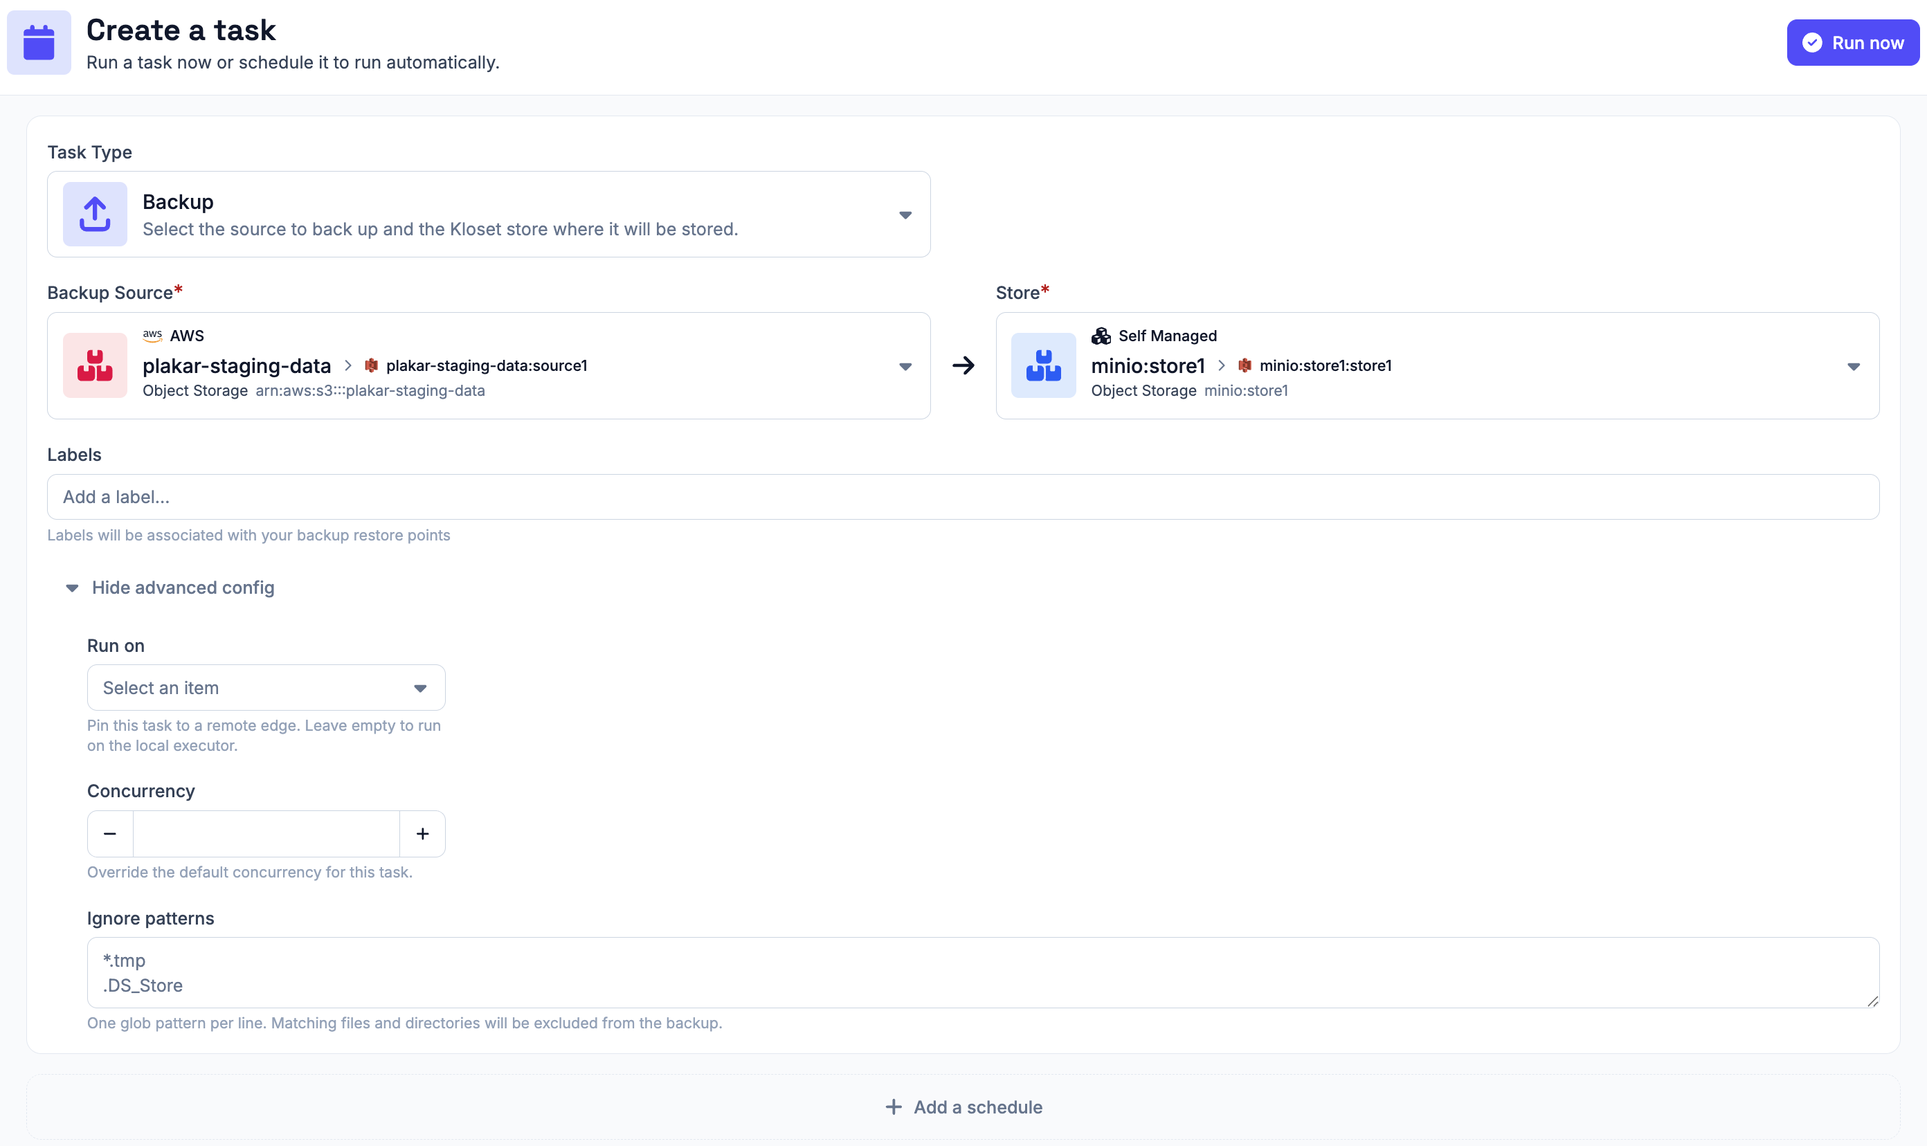
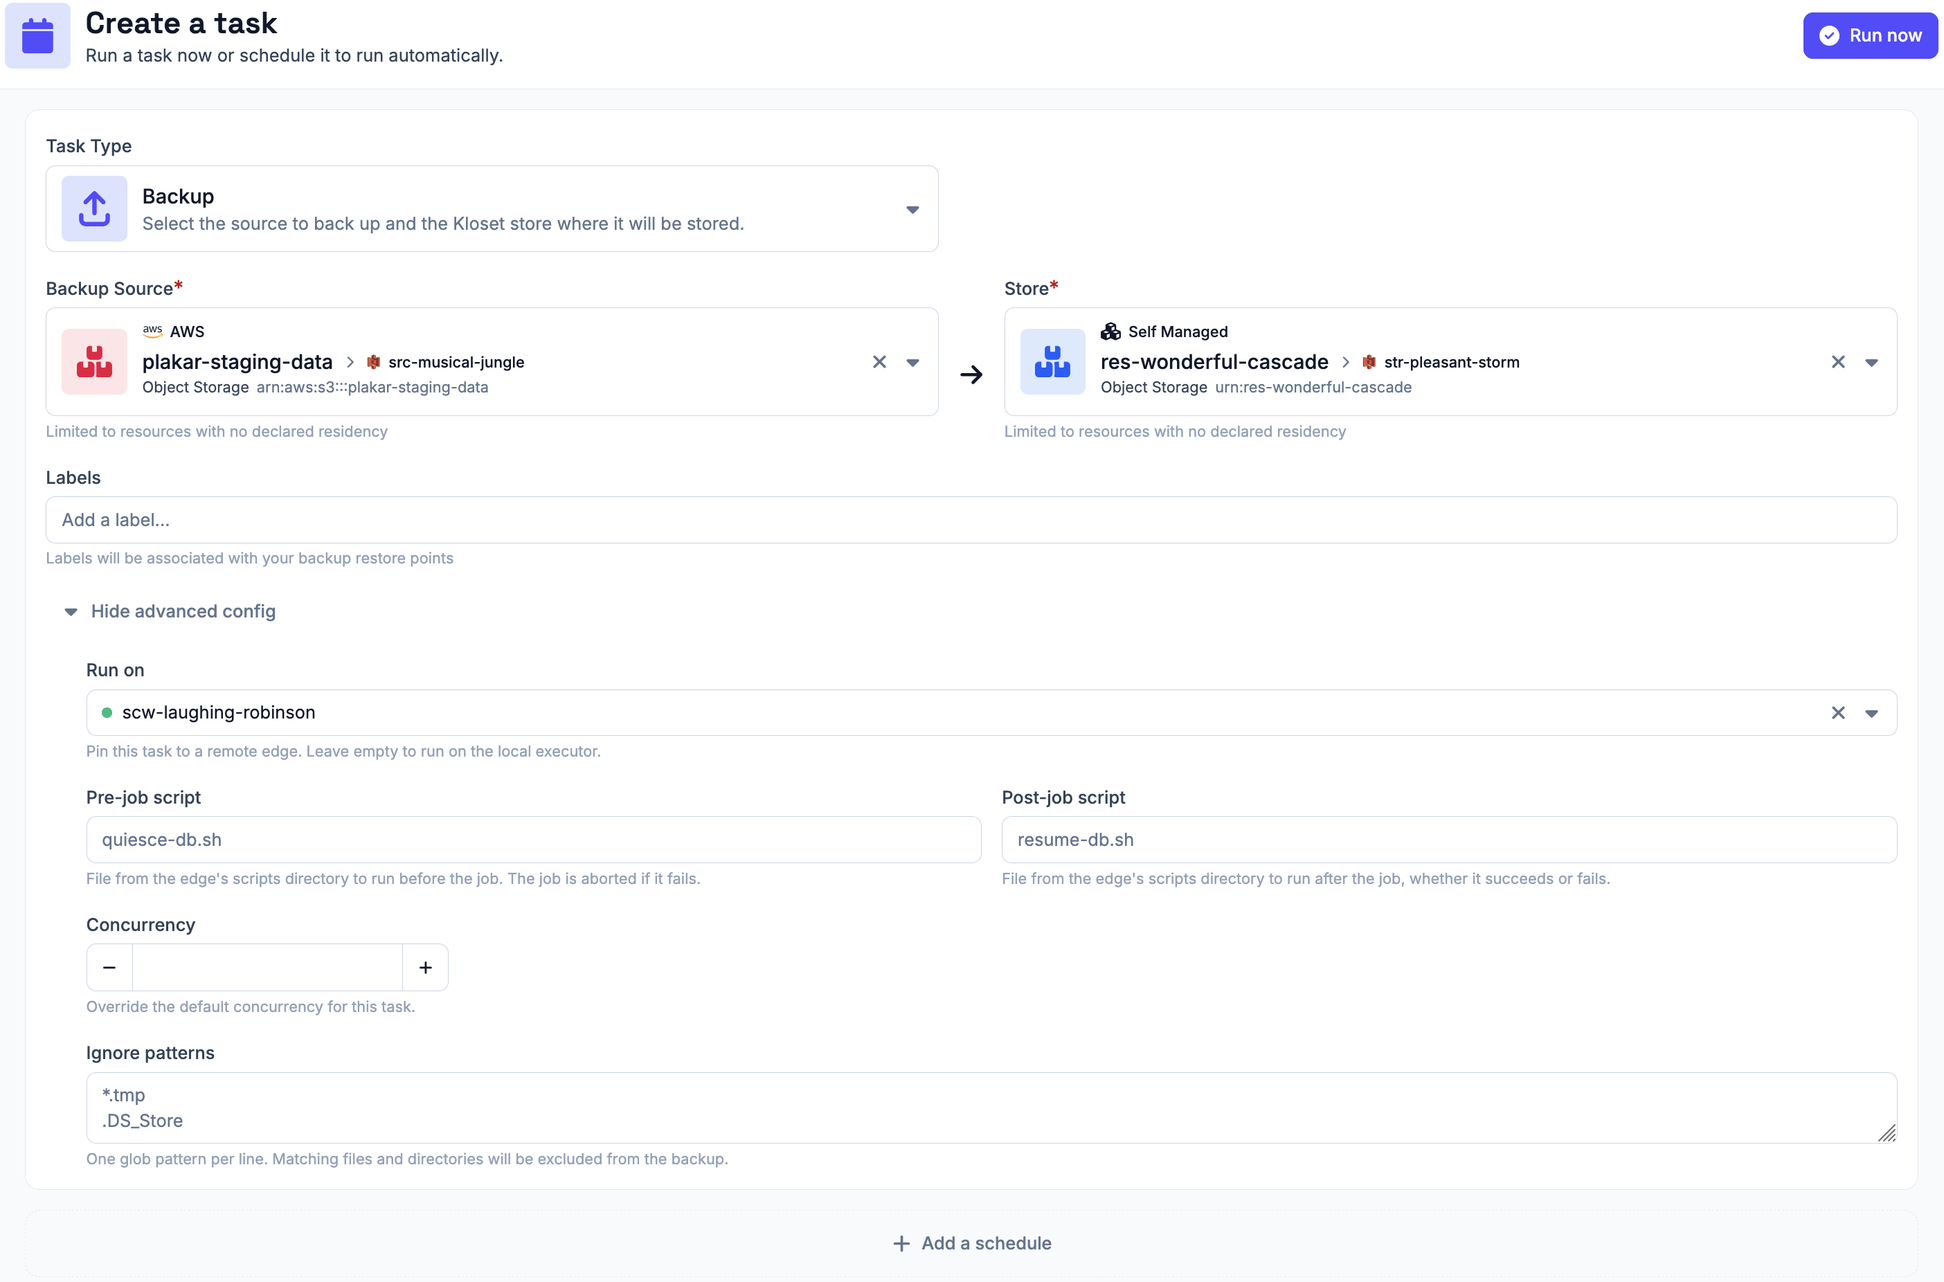
docs for running pre and post job hooks for pcp via an edge

diff --git a/content/docs/control-plane/infrastructure/edges.md b/content/docs/control-plane/infrastructure/edges.md
@@ -267,19 +267,20 @@ $ plakar-edge \
 
 The most important options are:
 
-| Option           | Required  | Description                                                                                                            |
-| ---------------- | --------- | ---------------------------------------------------------------------------------------------------------------------- |
-| `-control-plane` | Yes       | Base URL of the Plakar Control Plane.                                                                                  |
-| `-enroll`        | First run | Enrollment key used to register the edge. It can also be provided through `PLAKAR_EDGE_ENROLL_KEY`.                    |
-| `-organization`  | First run | Identifier of the organization the edge joins. It can also be provided through `PLAKAR_EDGE_ORGANIZATION`.             |
-| `-name`          | No        | Name displayed for the edge in PCP. Defaults to the hostname.                                                          |
-| `-tags`          | No        | Comma-separated tags reported by the edge on each poll. Tags can be used to target work to matching edges.             |
-| `-state-dir`     | No        | Directory used to store the edge identity and authentication token. Defaults to `/var/lib/plakar-edge`.                |
-| `-pkg`           | No        | Directory used for downloaded connector packages. Defaults to `<state-dir>/pkg`.                                       |
-| `-max-parallel`  | No        | Maximum number of tasks the edge runs concurrently. Defaults to `5`.                                                   |
-| `-poll-hold`     | No        | Expected server-side long-poll duration. Defaults to `30s`.                                                            |
-| `-listen`        | No        | Address of the supervision HTTP server. Defaults to `127.0.0.1:9877`. Set it to an empty string to disable the server. |
-| `-metrics`       | No        | Enables the Prometheus `/metrics` endpoint. Defaults to `true`.                                                        |
+| Option           | Required  | Description                                                                                                                  |
+| ---------------- | --------- | ---------------------------------------------------------------------------------------------------------------------------- |
+| `-control-plane` | Yes       | Base URL of the Plakar Control Plane.                                                                                        |
+| `-enroll`        | First run | Enrollment key used to register the edge. It can also be provided through `PLAKAR_EDGE_ENROLL_KEY`.                          |
+| `-organization`  | First run | Identifier of the organization the edge joins. It can also be provided through `PLAKAR_EDGE_ORGANIZATION`.                   |
+| `-name`          | No        | Name displayed for the edge in PCP. Defaults to the hostname.                                                                |
+| `-tags`          | No        | Comma-separated tags reported by the edge on each poll. Tags can be used to target work to matching edges.                   |
+| `-state-dir`     | No        | Directory used to store the edge identity and authentication token. Defaults to `/var/lib/plakar-edge`.                      |
+| `-pkg`           | No        | Directory used for downloaded connector packages. Defaults to `<state-dir>/pkg`.                                             |
+| `-max-parallel`  | No        | Maximum number of tasks the edge runs concurrently. Defaults to `5`.                                                         |
+| `-poll-hold`     | No        | Expected server-side long-poll duration. Defaults to `30s`.                                                                  |
+| `-listen`        | No        | Address of the supervision HTTP server. Defaults to `127.0.0.1:9877`. Set it to an empty string to disable the server.       |
+| `-metrics`       | No        | Enables the Prometheus `/metrics` endpoint. Defaults to `true`.                                                              |
+| `-scripts-dir`   | No        | Directory holding the [hook scripts](#pre-job-and-post-job-hooks) tasks may run. Empty by default, which refuses every hook. |
 
 `-max-parallel` caps how much work one edge takes on at a time. Tasks assigned
 beyond that limit wait until a running one finishes.
@@ -358,20 +359,22 @@ chart release.
 
 The main values for an edge deployment are:
 
-| Value                          | Default                          | Description                                                                     |
-| ------------------------------ | -------------------------------- | ------------------------------------------------------------------------------- |
-| `controlPlane`                 | `""`                             | Base URL of the Plakar Control Plane. Required.                                 |
-| `organization`                 | `""`                             | Identifier of the organization the edges should join. Required.                 |
-| `enrollKey.secretName`         | `""`                             | Existing Secret containing the enrollment key. Required.                        |
-| `enrollKey.secretKey`          | `enroll-key`                     | Key containing the enrollment key inside the Secret.                            |
-| `replicaCount`                 | `1`                              | Number of independent edges to run.                                             |
-| `tags`                         | `""`                             | Tags reported by every edge.                                                    |
-| `pollHold`                     | `""`                             | Long-poll duration. An empty value uses the binary default.                     |
-| `persistence.size`             | `5Gi`                            | Storage allocated to each edge.                                                 |
-| `persistence.storageClassName` | `""`                             | StorageClass used for the edge volume. An empty value uses the cluster default. |
-| `persistence.mountPath`        | `/data`                          | Mount point for the edge's persistent data.                                     |
-| `image.repository`             | `ghcr.io/plakarkorp/plakar-edge` | Edge container image repository.                                                |
-| `image.tag`                    | `""`                             | Edge image tag. An empty value uses the chart's application version.            |
+| Value                          | Default                          | Description                                                                                                     |
+| ------------------------------ | -------------------------------- | --------------------------------------------------------------------------------------------------------------- |
+| `controlPlane`                 | `""`                             | Base URL of the Plakar Control Plane. Required.                                                                 |
+| `organization`                 | `""`                             | Identifier of the organization the edges should join. Required.                                                 |
+| `enrollKey.secretName`         | `""`                             | Existing Secret containing the enrollment key. Required.                                                        |
+| `enrollKey.secretKey`          | `enroll-key`                     | Key containing the enrollment key inside the Secret.                                                            |
+| `replicaCount`                 | `1`                              | Number of independent edges to run.                                                                             |
+| `tags`                         | `""`                             | Tags reported by every edge.                                                                                    |
+| `pollHold`                     | `""`                             | Long-poll duration. An empty value uses the binary default.                                                     |
+| `persistence.size`             | `5Gi`                            | Storage allocated to each edge.                                                                                 |
+| `persistence.storageClassName` | `""`                             | StorageClass used for the edge volume. An empty value uses the cluster default.                                 |
+| `persistence.mountPath`        | `/data`                          | Mount point for the edge's persistent data.                                                                     |
+| `image.repository`             | `ghcr.io/plakarkorp/plakar-edge` | Edge container image repository.                                                                                |
+| `image.tag`                    | `""`                             | Edge image tag. An empty value uses the chart's application version.                                            |
+| `scripts.configMapName`        | `""`                             | Existing ConfigMap whose entries are the [hook scripts](#pre-job-and-post-job-hooks). Empty refuses every hook. |
+| `scripts.mountPath`            | `/scripts`                       | Mount point of the hook scripts, passed to the edge as `-scripts-dir`.                                          |
 
 The chart also supports standard Kubernetes scheduling and resource settings
 such as `resources`, `serviceAccount`, `nodeSelector`, `tolerations`, and
@@ -423,11 +426,12 @@ required by every task it executes.
 
 ## Run tasks on an edge
 
-Scheduled tasks run on the Control Plane by default.
+A task that is not pinned to an edge is dispatched by the Control Plane, which
+prefers an available edge over running the task itself. See
+[Selecting an edge](#selecting-an-edge).
 
-To execute a task through an edge, configure the task to use the desired edge
-when creating or editing the schedule. The edge then becomes the executor for
-that task rather than the Control Plane appliance.
+To run a task on a specific edge, pin it to that edge when creating or editing
+the schedule.
 
 This allows you to choose where an operation runs based on the network location
 of the resources it protects.
@@ -435,28 +439,74 @@ of the resources it protects.
 See [Scheduled Tasks](../../scheduling/tasks) for information about configuring
 scheduled operations.
 
+## Pre-job and post-job hooks
+
+Backup and restore tasks running on an edge can use **pre-job** and **post-job
+hooks** to perform actions immediately before and after the task. Hooks are
+useful when a workload needs preparation before a backup or restore, or cleanup
+afterward. For example, a pre-job hook can quiesce a database or mount a
+snapshot, while a post-job hook can resume the database or remove the snapshot.
+
+Hooks are scripts that are managed on the edge host. The edge only executes
+scripts from the directory configured with `-scripts-dir`. The task refers to a
+script by its file name; it cannot provide an arbitrary path. File names
+containing path separators, `.` or `..` are rejected. An edge without a
+configured scripts directory does not accept hooks.
+
+The pre-job hook runs before the backup or restore begins. If it fails, the task
+is aborted and the backup or restore does not start. The post-job hook runs
+after the job once a pre-job hook has completed, regardless of whether the
+backup or restore itself succeeded. This ensures that cleanup or recovery
+actions can still take place after a failed job.
+
+A failure in the post-job hook causes the task to be reported as failed, even if
+the backup or restore itself succeeded. The backup is not discarded in this
+case. For example, if a post-job hook is responsible for resuming a database and
+that operation fails, the task reports the hook failure so that the resulting
+state can be investigated.
+
+Hook scripts inherit the environment of the edge process and receive additional
+variables describing the current task:
+
+- `PLAKAR_WORK_ID`: identifier of the work item.
+- `PLAKAR_OP`: operation being performed.
+- `PLAKAR_HOOK`: `pre_job` or `post_job`.
+
+This allows the same script to be used by multiple tasks and to distinguish
+between the pre-job and post-job phases.
+
+When a hook fails, the end of its output is included in the error reported to
+the Control Plane, providing context for diagnosing the failure.
+
+### Hooks on Kubernetes
+
+On Kubernetes, hook scripts are provided through a ConfigMap configured with
+`scripts.configMapName`. The chart mounts the ConfigMap as a read-only,
+executable directory at `scripts.mountPath` and passes that path to the edge
+using `-scripts-dir`.
+
 ## Selecting an edge
 
-A task can be pinned to a specific edge. When you schedule the task, you can
-specify which edge should run it, and the task is then dispatched to that edge.
+The Control Plane decides where a task runs when the task is dispatched. A task
+can name one edge or a set of tags, but not both.
 
-Edges can also report tags to the Control Plane. Tags are intended to let tasks
-describe which edges they can run on rather than naming one specific edge. For
-example, a task could eventually target edges tagged `env:prod`, allowing the
-Control Plane to choose any matching edge.
+Tags let a task describe which edges it can run on rather than naming one
+specific edge. Each edge reports its tags to the Control Plane on every poll. A
+task targeting `env:prod` can run on any online edge tagged `env:prod`, so the
+Control Plane can choose among them instead of depending on a single edge.
 
-Tag-based task selection is not currently configurable from the Control Plane
-interface. As a result, tasks do not currently carry tag selectors and cannot be
-explicitly targeted using tags.
+- **Pinned to an edge**: the task runs on that edge. It fails if the edge is
+  offline.
+- **Targeted by tags**: the task runs on an online edge that reports every tag
+  in the set. It fails if no online edge matches.
+- **Neither**: the task runs on any online edge. When several are online, the
+  Control Plane prefers the one that has run a task least recently. When no edge
+  is online, the task runs on the Control Plane itself.
 
-When a task is not pinned to a specific edge, the Control Plane looks for an
-available edge to run it on. If multiple edges are available, the Control Plane
-distributes tasks across them, preferring the edge that has run a task least
-recently. This allows work to be spread across available edges rather than
-repeatedly using the same one.
-
-The Control Plane also prefers dispatching a task to an edge rather than running
-the task on the Control Plane itself.
+A task is pinned to an edge with the **Run on** field when it is
+[scheduled](../../scheduling/tasks). Targeting by tags is not available in the
+Control Plane interface. It is currently only possible through the `edge_tags`
+option of the [Ansible collection](../../references/ansible-collection).
 
 > [!NOTE]
 >

diff --git a/content/docs/control-plane/scheduling/tasks.md b/content/docs/control-plane/scheduling/tasks.md
@@ -31,10 +31,16 @@ restore points and can later be used as filters for your restore points.
 
 ### Advanced Config
 
-- **Run on**: Enables you to select a remote edge executor to run the task on.
-  If left empty, the task runs on the local executor in your Control Plane
-  instance. Check the [edge documentation](../infrastructure/edges) for more
-  information on remote executors for Control Plane.
+- **Run on**: Pins the task to a specific edge. If left empty, the Control Plane
+  picks an available edge, preferring an edge over running the task itself.
+  Targeting edges by tags is currently only possible through the
+  [Ansible collection](../references/ansible-collection). See
+  [selecting an edge](../infrastructure/edges#selecting-an-edge).
+- **Pre-job script** and **Post-job script**: File names of scripts in the
+  edge's scripts directory, run before and after the job. The task fails if the
+  pre-job script fails, and the post-job script runs whether the job succeeds or
+  fails. See
+  [pre-job and post-job hooks](../infrastructure/edges#pre-job-and-post-job-hooks).
 - **Concurrency**: This controls how many operations the backup task runs in
   parallel. Plakar Control Plane automatically sets a recommended concurrency
   for each operation its doing. Only change this if you have a specific reason
@@ -61,10 +67,16 @@ showing only restore points that match the specified environment and data class.
 
 ### Advanced Config
 
-- **Run on**: Enables you to select a remote edge executor to run the task on.
-  If left empty, the task runs on the local executor in your Control Plane
-  instance. Check the [edge documentation](../infrastructure/edges) for more
-  information on remote executors for Control Plane.
+- **Run on**: Pins the task to a specific edge. If left empty, the Control Plane
+  picks an available edge, preferring an edge over running the task itself.
+  Targeting edges by tags is currently only possible through the
+  [Ansible collection](../references/ansible-collection). See
+  [selecting an edge](../infrastructure/edges#selecting-an-edge).
+- **Pre-job script** and **Post-job script**: File names of scripts in the
+  edge's scripts directory, run before and after the job. The task fails if the
+  pre-job script fails, and the post-job script runs whether the job succeeds or
+  fails. See
+  [pre-job and post-job hooks](../infrastructure/edges#pre-job-and-post-job-hooks).
 - **Concurrency**: This controls how many operations the backup task runs in
   parallel. Plakar Control Plane automatically sets a recommended concurrency
   for each operation its doing. Only change this if you have a specific reason
@@ -83,10 +95,11 @@ matching all the provided labels will be synced to the other store.
 
 ### Advanced Config
 
-- **Run on**: Enables you to select a remote edge executor to run the task on.
-  If left empty, the task runs on the local executor in your Control Plane
-  instance. Check the [edge documentation](../infrastructure/edges) for more
-  information on remote executors for Control Plane.
+- **Run on**: Pins the task to a specific edge. If left empty, the Control Plane
+  picks an available edge, preferring an edge over running the task itself.
+  Targeting edges by tags is currently only possible through the
+  [Ansible collection](../references/ansible-collection). See
+  [selecting an edge](../infrastructure/edges#selecting-an-edge).
 - **Concurrency**: This controls how many operations the backup task runs in
   parallel. Plakar Control Plane automatically sets a recommended concurrency
   for each operation its doing. Only change this if you have a specific reason
@@ -118,10 +131,11 @@ checked, not the entire store.
 
 ### Advanced Config
 
-- **Run on**: Enables you to select a remote edge executor to run the task on.
-  If left empty, the task runs on the local executor in your Control Plane
-  instance. Check the [edge documentation](../infrastructure/edges) for more
-  information on remote executors for Control Plane.
+- **Run on**: Pins the task to a specific edge. If left empty, the Control Plane
+  picks an available edge, preferring an edge over running the task itself.
+  Targeting edges by tags is currently only possible through the
+  [Ansible collection](../references/ansible-collection). See
+  [selecting an edge](../infrastructure/edges#selecting-an-edge).
 - **Concurrency**: This controls how many operations the backup task runs in
   parallel. Plakar Control Plane automatically sets a recommended concurrency
   for each operation its doing. Only change this if you have a specific reason
